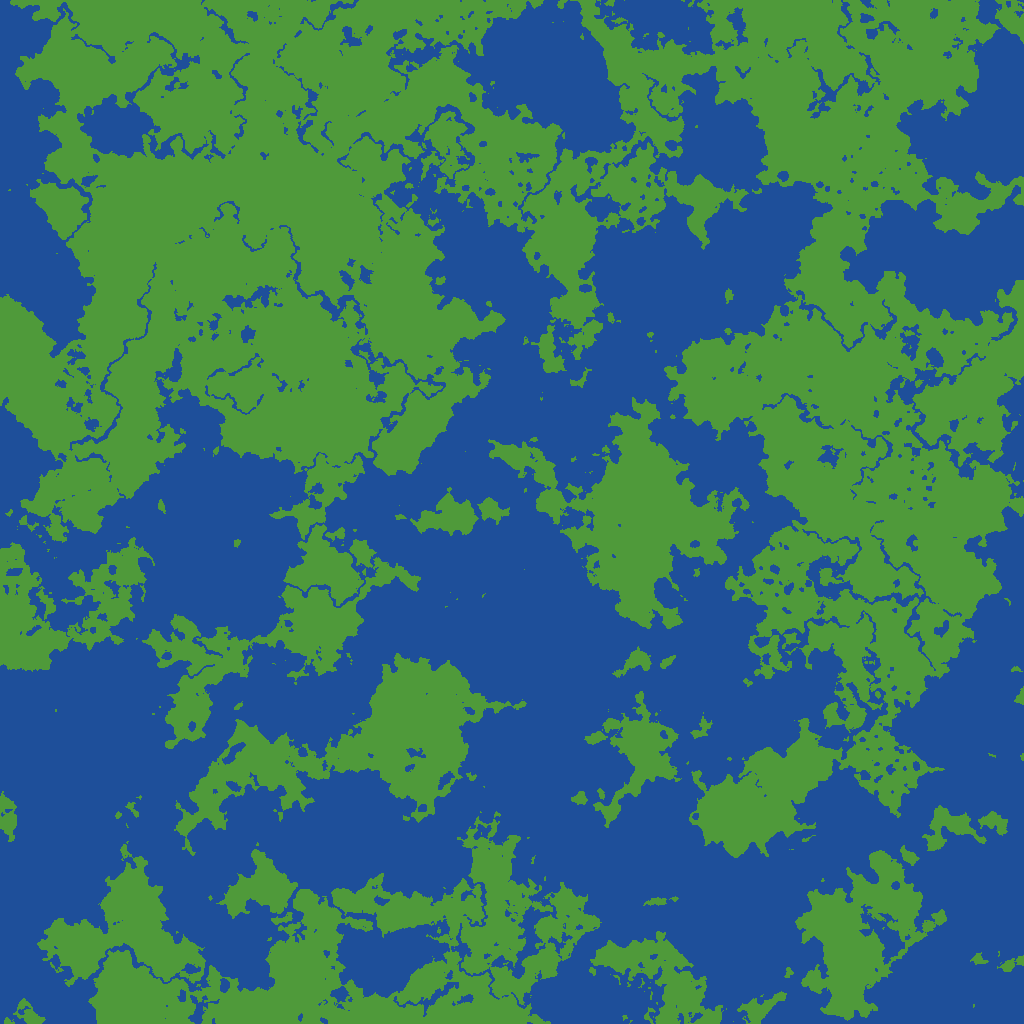
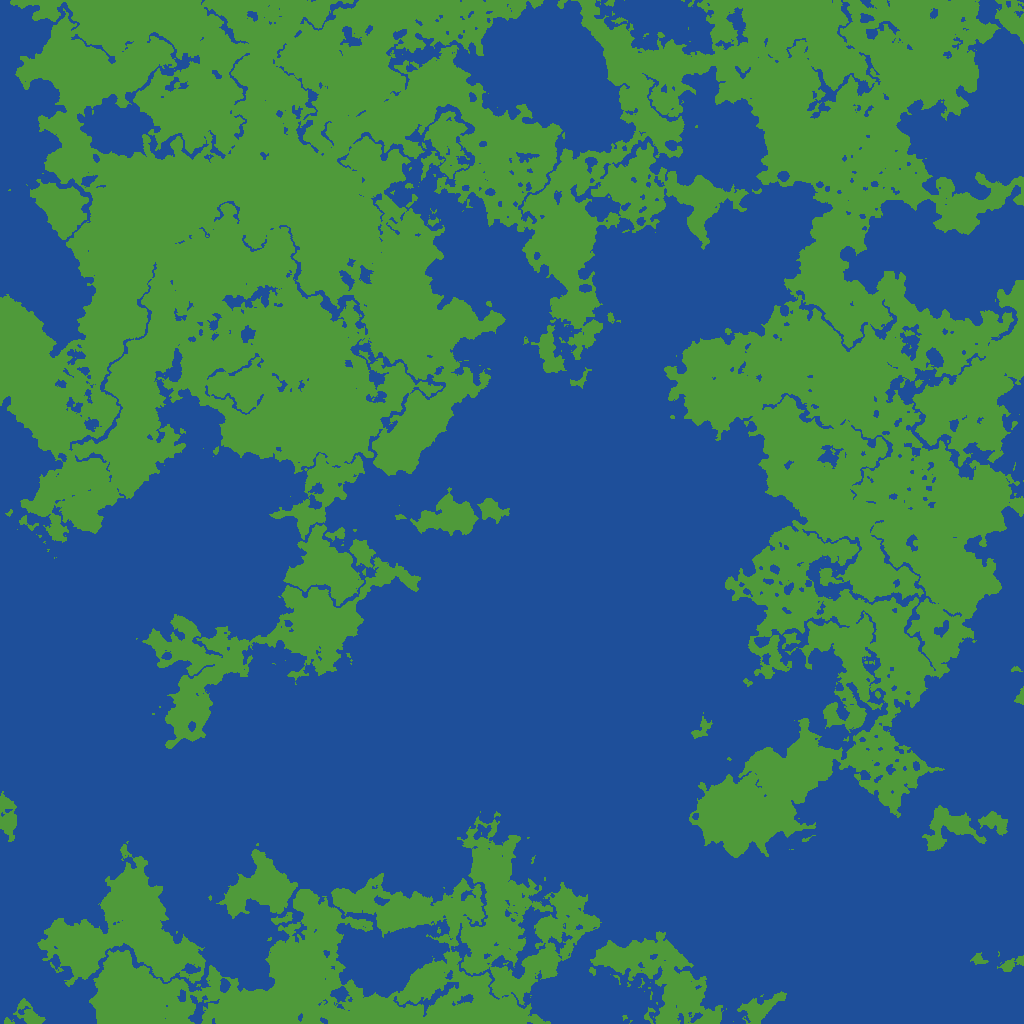
Fix ocean biomes on dry land: set every ocean's height
Moderner Beta's height table only covers the biomes it believes a world
can produce, which misses the deep cold, deep frozen and deep lukewarm
oceans and the deep warm one that the ocean climate step makes. Those
fell back to the default land height and rose into hills that still
reported an ocean biome (F3, ocean ruins and shipwrecks on land). The
preset now sets every ocean's height with Moderner Beta's 1.17.1 values.

Dry land reporting an ocean biome drops from 62,462 sampled columns to 3
(coastal blending, at most 5 blocks above sea level); a new test
(CoastTests, in the Eternal Return run) keeps it that way. The Eternal
Return old-caves fingerprint is re-recorded for the corrected ocean
floors; maps and the giant cavern checklist spot refreshed.

diff --git a/src/gametest/java/com/eternalreturn/gametest/CoastTests.java b/src/gametest/java/com/eternalreturn/gametest/CoastTests.java
@@ -1,0 +1,68 @@
+package com.eternalreturn.gametest;
+
+import com.eternalreturn.EternalReturn;
+import net.fabricmc.fabric.api.gametest.v1.FabricGameTest;
+import net.minecraft.server.world.ServerWorld;
+import net.minecraft.test.GameTest;
+import net.minecraft.test.TestContext;
+import net.minecraft.world.Heightmap;
+import net.minecraft.world.biome.source.BiomeCoords;
+import net.minecraft.world.gen.chunk.ChunkGenerator;
+import net.minecraft.world.gen.noise.NoiseConfig;
+
+import java.util.ArrayList;
+import java.util.List;
+import java.util.Map;
+import java.util.TreeMap;
+
+/**
+ * Ocean biomes on dry land: over a wide square, the biome the world reports at the ground (what F3 shows,
+ * and what structures and features go by) must not be an ocean where the ground stands above sea level.
+ * Moderner Beta blends terrain heights across biome borders, so a coast can rise a block or two out of the
+ * water inside an ocean biome (Release 1.6.4 did the same); a handful of such columns are allowed, all
+ * less than 8 blocks above sea level. Ocean biomes whose height Moderner Beta didn't know once rose into whole hills
+ * here (see the ocean heights in tools/worldgen/build_preset.py).
+ */
+public class CoastTests implements FabricGameTest {
+	public static final String COAST_BATCH = "coast";
+	private static final int HALF = 4000;
+	private static final int STEP = 8;
+
+	@GameTest(templateName = EMPTY_STRUCTURE, batchId = COAST_BATCH, tickLimit = 2_000_000)
+	public void noOceanBiomesOnLand(TestContext ctx) {
+		ServerWorld world = ctx.getWorld();
+		ChunkGenerator generator = world.getChunkManager().getChunkGenerator();
+		NoiseConfig noise = world.getChunkManager().getNoiseConfig();
+		int sea = generator.getSeaLevel();
+		Map<String, Integer> oceanColumns = new TreeMap<>();
+		Map<String, Integer> oceanOnLand = new TreeMap<>();
+		Map<Integer, Integer> landHeights = new TreeMap<>();
+		List<String> examples = new ArrayList<>();
+		for (int x = -HALF; x < HALF; x += STEP) {
+			for (int z = -HALF; z < HALF; z += STEP) {
+				int ground = generator.getHeight(x, z, Heightmap.Type.OCEAN_FLOOR_WG, world, noise);
+				String biome = BiomeStoneTests.id(generator.getBiomeSource().getBiome(BiomeCoords.fromBlock(x), BiomeCoords.fromBlock(Math.max(ground, sea)),
+						BiomeCoords.fromBlock(z), noise.getMultiNoiseSampler()));
+				if (!biome.endsWith("_ocean") && !biome.equals("minecraft:ocean")) {
+					continue;
+				}
+				oceanColumns.merge(biome, 1, Integer::sum);
+				if (ground > sea) {
+					oceanOnLand.merge(biome, 1, Integer::sum);
+					landHeights.merge(Math.min((ground - sea) / 4 * 4, 40), 1, Integer::sum);
+					if (examples.size() < 12 && (x + z) % 512 == 0) {
+						examples.add(x + " " + ground + " " + z + " " + biome);
+					}
+				}
+			}
+		}
+		int onLand = oceanOnLand.values().stream().mapToInt(Integer::intValue).sum();
+		EternalReturn.LOGGER.info("[coast] ocean columns by biome {} | on land (ground above y {}) {} total {} | height above sea, in steps of 4: {} | e.g. {}",
+				oceanColumns, sea, oceanOnLand, onLand, landHeights, examples);
+		int oceans = oceanColumns.values().stream().mapToInt(Integer::intValue).sum();
+		int high = landHeights.entrySet().stream().filter(entry -> entry.getKey() >= 8).mapToInt(Map.Entry::getValue).sum();
+		ctx.assertTrue(onLand <= oceans / 20_000 && high == 0, onLand + " sampled columns of dry land report an ocean biome (" + high
+				+ " of them 8 or more blocks above sea level): " + oceanOnLand + ", e.g. " + examples);
+		ctx.complete();
+	}
+}

diff --git a/tools/worldgen/build_preset.py b/tools/worldgen/build_preset.py
@@ -165,6 +165,15 @@ forced['modifyOnlyPositiveDepth'] = KNOBS['modify_only_positive_depth']
 # flat-topped block; a raised, rolling highland (and higher hills) suits them better, like vanilla's meadows.
 forced['heightOverrides']['minecraft:cherry_grove'] = '0.35;0.6'
 forced['heightOverrides']['minecraft:cherry_grove*hills'] = '0.6;0.7'
+# Ocean heights, as Moderner Beta's Release 1.17.1 preset sets them. Its height table only covers the
+# biomes it believes a world can produce, which misses the deep cold, deep frozen and deep lukewarm
+# oceans and the deep warm one (warm_ocean*deep) that the ocean climate step makes; without these lines
+# they get the default land height and rise into hills that still report an ocean biome.
+for ocean in ['ocean', 'cold_ocean', 'lukewarm_ocean', 'warm_ocean', 'frozen_ocean']:
+    forced['heightOverrides']['minecraft:' + ocean] = '-1.0;0.2'
+for ocean in ['deep_ocean', 'deep_cold_ocean', 'deep_lukewarm_ocean', 'deep_frozen_ocean']:
+    forced['heightOverrides']['minecraft:' + ocean] = '-1.8;0.2'
+forced['heightOverrides']['minecraft:warm_ocean*deep'] = '-1.0;0.2'
 
 preset['name'] = {'color': 'gold', 'translate': f'createWorld.customize.modern_beta.preset.name.{NS}.eternal_return'}
 preset['description'] = {'translate': f'createWorld.customize.modern_beta.preset.desc.{NS}.eternal_return'}

diff --git a/src/gametest/java/com/eternalreturn/gametest/GameTestWorld.java b/src/gametest/java/com/eternalreturn/gametest/GameTestWorld.java
@@ -15,7 +15,7 @@ public final class GameTestWorld {
 	public static final String WORLDMAP_BATCH = "worldmap";
 	/** Batches that need a generated world, so they never run in the flat-world runs. */
 	private static final Set<String> GENERATED_WORLD_BATCHES = Set.of(WORLDGEN_BATCH, ETERNAL_RETURN_BATCH, WORLDMAP_BATCH,
-			ControlFingerprintTests.FINGERPRINT_BATCH, OreCensusTests.ORE_BATCH, BiomeStoneTests.BIOME_STONE_BATCH, StoneMapTests.STONEMAP_BATCH);
+			ControlFingerprintTests.FINGERPRINT_BATCH, OreCensusTests.ORE_BATCH, BiomeStoneTests.BIOME_STONE_BATCH, StoneMapTests.STONEMAP_BATCH, CoastTests.COAST_BATCH);
 
 	public static final String ETERNAL_RETURN_PRESET = "eternalreturn:eternal_return";
 

diff --git a/docs/worldgen.md b/docs/worldgen.md
@@ -76,7 +76,7 @@ The preset is all data. Without Moderner Beta installed, the world type and its 
 
 **Biomes.** The 1.6.4 land pool (desert, forest, extreme hills, swampland, plains, taiga, jungle, each listed twice) plus birch forest, savanna, badlands, dark forest and cherry grove (each listed once). River, frozen river, beach, ice plains, ice mountains, mushroom island, and the hills and shore rules are unchanged from 1.6.4. Birch forest, savanna, badlands and cherry grove get hills variants through the hills layer; dark forest has none, as in later versions.
 
-**Oceans.** Every modern ocean, with the steps Moderner Beta's Release 1.17.1 preset uses: right after the mushroom island layer, ocean whose four neighbours are ocean becomes deep ocean (Release 1.7's deep ocean layer); beaches and rivers treat deep ocean as ocean; and last, an ocean temperature noise (Release 1.13's) makes each ocean or deep ocean frozen, cold, plain, lukewarm or warm, softening warm and frozen next to land (deep warm stays as shallow as warm, as in vanilla, where there is no deep warm ocean). The frozen oceans 1.6.4 puts beside its ice plains stay frozen. Over 8,000 x 8,000 blocks of the test seed, oceans are about 40 percent of the area: ocean 9.9, deep ocean 7.7, cold 6.9, lukewarm 4.6, deep cold 3.3, deep lukewarm 2.7, warm 2.0, frozen 1.1 and deep frozen 0.6 percent. Deep oceans are deeper (Moderner Beta's deep-ocean height) and bring ocean monuments (35 within 4,000 blocks of spawn); vanilla's ocean ruins, shipwrecks and buried treasure follow the ocean types, and Moderner Beta's smaller ocean shrines turn up in every ocean.
+**Oceans.** Every modern ocean, with the steps Moderner Beta's Release 1.17.1 preset uses: right after the mushroom island layer, ocean whose four neighbours are ocean becomes deep ocean (Release 1.7's deep ocean layer); beaches and rivers treat deep ocean as ocean; and last, an ocean temperature noise (Release 1.13's) makes each ocean or deep ocean frozen, cold, plain, lukewarm or warm, softening warm and frozen next to land (deep warm stays as shallow as warm, as in vanilla, where there is no deep warm ocean). The frozen oceans 1.6.4 puts beside its ice plains stay frozen. Over 8,000 x 8,000 blocks of the test seed, oceans are about 40 percent of the area: ocean 9.9, deep ocean 7.7, cold 6.9, lukewarm 4.6, deep cold 3.3, deep lukewarm 2.7, warm 2.0, frozen 1.1 and deep frozen 0.6 percent. Every ocean's height is set in the preset, with Moderner Beta's 1.17.1 values (`-1.0;0.2`, deep ones `-1.8;0.2`, and the deep warm ocean `warm_ocean*deep` as shallow as warm), so the sea floor has no steps where the temperature changes. Without those lines the deep cold, deep frozen and deep lukewarm oceans and the deep warm one, which Moderner Beta's height table leaves out, took the default land height and rose into hills that still reported an ocean biome, with ocean ruins and shipwrecks on dry land. Deep oceans are deeper and bring ocean monuments (35 within 4,000 blocks of spawn); vanilla's ocean ruins, shipwrecks and buried treasure follow the ocean types, and Moderner Beta's smaller ocean shrines turn up in every ocean.
 
 **Cherry groves** are a normal entry in the land pool, about 2.4 percent of the area (as much as badlands). Moderner Beta gives them a plateau height, which Eternal Return's terrain knobs turned into sheer flat-topped blocks rising from the sea; `build_preset.py` sets them to a raised, rolling highland instead (`0.35;0.6`, hills `0.6;0.7`).
 
@@ -454,7 +454,7 @@ Over 500 x 500 chunks of the test seed: 1,060 mineshafts, 841 oak, 79 spruce, 40
 ### Tests
 
 - `runGametestEternalReturn`, `MineshaftAndOceanTests`: every mineshaft start within 250 chunks of spawn, found the way the generator places them (the structure set's placement, then the structure's own start, through the same code and hooks the generator uses), has its biome's wood in every piece; every wood turns up; mineshafts start in each of Moderner Beta's four extra biomes. The nearest mineshaft of each wood under land is then built into fully generated terrain with the game's own piece code: over a thousand of its own planks and fences, none of another wood, and its pieces save their wood. Test worlds are made with structures switched off (vanilla's test server does that), so the test places them itself. The same test class checks that all nine oceans and cherry groves appear within 4,000 blocks, and that ocean monuments can start, and logs the spots used in the README checklist.
-- Moderner Beta's list of the biomes a world can produce misses the deep cold, deep frozen and deep lukewarm oceans its ocean climate step makes, and Fabric attaches carvers only to listed biomes, so at first those oceans got no caves at all (a debug-tunnel check and two cave-type squares came up nearly empty). The cave carver and the debug tunnel are now attached to those three by name as well (`WorldgenFeatures`); they are vanilla overworld biomes, so other worlds are unchanged. A new cave test checks that every biome the world can produce, listed or not, carries the cave carver.
+- Moderner Beta's list of the biomes a world can produce misses the deep cold, deep frozen and deep lukewarm oceans its ocean climate step makes. Its height table follows that list, so those oceans (and the deep warm one) first came out as land hills reporting an ocean biome; the preset now sets every ocean's height (see Oceans), and `CoastTests` checks over 8,000 x 8,000 blocks that dry land reports an ocean biome only in a handful of coastal columns a block or two above the water, where Moderner Beta blends heights across a border (Release 1.6.4 did the same). Fabric also attaches carvers only to listed biomes, so at first those oceans got no caves at all (a debug-tunnel check and two cave-type squares came up nearly empty). The cave carver and the debug tunnel are now attached to those three by name as well (`WorldgenFeatures`); they are vanilla overworld biomes, so other worlds are unchanged. A new cave test checks that every biome the world can produce, listed or not, carries the cave carver.
 - The ore census and the old-caves carving fingerprint were recorded again, since adding a biome moves every land biome; everything else in those runs is unchanged.
 
 ## Phase 1 findings (Moderner Beta 5.0.0-alpha.2)

diff --git a/README.md b/README.md
@@ -32,7 +32,7 @@ In-game tests live in `src/gametest`, a separate test mod that is never packed i
 | `runGametestModernerBeta164` | Moderner Beta, Release 1.6.4 | carving unchanged; cave density for comparison |
 | `runGametestModernerBetaBeta` | Moderner Beta, Beta 1.7.3 | carving unchanged |
 | `runGametestVanilla` | vanilla generator | worldgen checks (debug tunnel on, trial chambers present), carving unchanged |
-| `runGametestEternalReturn` | Eternal Return, seed 173164 | mineshaft woods by biome (and real ones built from them), all nine oceans, cherry groves and ocean monuments present, world height, biome list, no cave biomes, no deepslate, badlands surface, no trial chambers; ore counts per ore over squares in ten biomes within 1% of the baseline recorded before the ore variants (`src/gametest/resources/ores/`), no stone-textured ore inside host stone, variants open to caves in every host, an emerald survey of the highest extreme hills, Moderner Beta hooks applied; debug tunnel on |
+| `runGametestEternalReturn` | Eternal Return, seed 173164 | mineshaft woods by biome (and real ones built from them), all nine oceans, cherry groves and ocean monuments present, no ocean biomes on dry land, world height, biome list, no cave biomes, no deepslate, badlands surface, no trial chambers; ore counts per ore over squares in ten biomes within 1% of the baseline recorded before the ore variants (`src/gametest/resources/ores/`), no stone-textured ore inside host stone, variants open to caves in every host, an emerald survey of the highest extreme hills, Moderner Beta hooks applied; debug tunnel on |
 | `runGametestEternalReturnOldCaves` | Eternal Return, new caves off, old caves on, biome stone off | carving matches the world from before the cave engine; cave density for comparison |
 | `runGametestCaves` | Eternal Return plus a twin dimension | every cave type, seams, chunk order, the carvable tag, density, timing; biome stone in every biome against the same chunks without it |
 
@@ -321,7 +321,7 @@ Caves (same world; a new world, since chunks generated before this update keep t
 
 36. `-1283 -11 -1127`: spaghetti, 1.6.4-style tunnels that swell in the middle and fork; follow them up and down.
 37. `-1286 15 -1140`: a ravine, a narrow, very tall canyon with stepped, jagged walls.
-38. `-1200 -23 -1094`: a large cavern with uneven walls, a rolling floor and tunnels leading off. For a giant one, `/tp @s -3710 -10 2451` (far from the others).
+38. `-1200 -23 -1094`: a large cavern with uneven walls, a rolling floor and tunnels leading off. For a giant one, `/tp @s 356 -17 4290`: about 190 blocks across and 55 tall (far from the others).
 39. `-1275 51 -1129`: the top of a vertical shaft; look down, then follow it to the tunnels at the bottom.
 40. `-1338 37 -1196`: a zig-zag tunnel: straight runs with sharp alternating turns.
 41. `-1304 -3 -1146`: a ribbed tunnel that bulges and pinches every few blocks.
